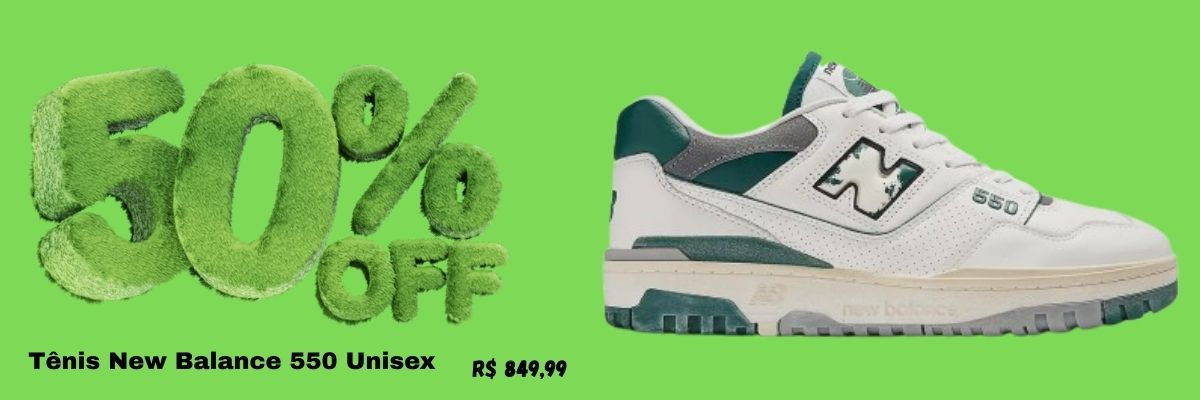
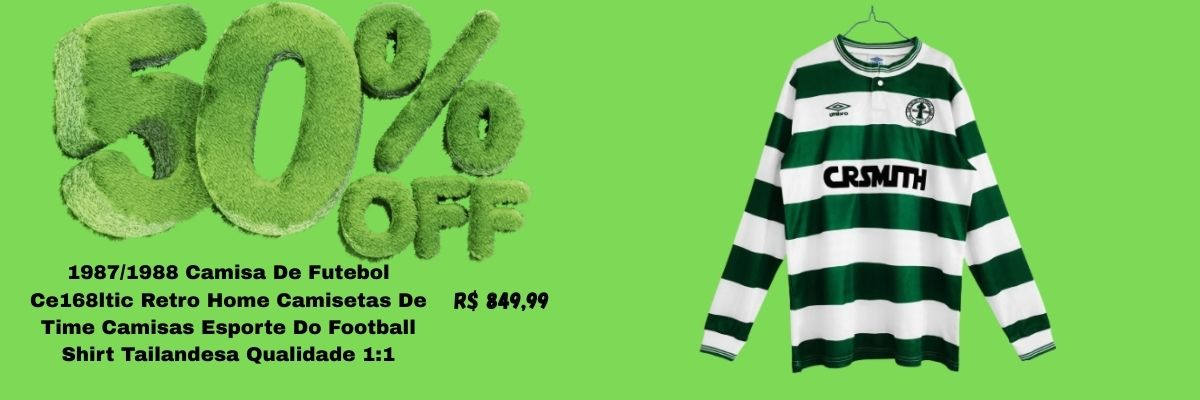
Add files via upload

diff --git a/src/App.jsx b/src/App.jsx
@@ -1,9 +1,9 @@
 import { useState } from 'react'
 import './App.css'
-import hellsing from './assets/pumal.png'
-import HP from './assets/new balance.png'
+import hellsing from './assets/arsenal.png'
+import HP from './assets/milan.png'
 import React from 'react'
-import HxH from './assets/dn.png'
+import HxH from './assets/celtic.png'
 import Slider1 from './assets/1.jpg'
 import Slider2 from './assets/2.jpg'
 import Slider3 from './assets/3.jpg'
@@ -31,7 +31,7 @@ loop={true}
 className='mySwiper'
     >
       <SwiperSlide>
-        <img src={Slider1} alt='slide1' />
+        <img src={Slider1} alt='slide 1' />
       </SwiperSlide>
       <SwiperSlide>
       <img src={Slider2} alt='Slide 2' />
@@ -51,8 +51,8 @@ className='mySwiper'
           <a href="#" className="link-card">
             <div className="card">
               <img src={hellsing} alt="" className="img-card" />
-              <h2 className="titulo-card">Puma suede xl</h2>
-              <p className="desc">Nova coleção da puma</p>
+              <h2 className="titulo-card">Camisa Retrô Arsenal Home</h2>
+              <p className="desc">Camisa do Arsenal Retrô 05/06 – Torcedor Nike Masculina Vinho</p>
               <p className="preco">R$ 499,99</p>
               <div className="avaliacao"> ★ ★ ★ ★ ☆</div>
              
@@ -63,8 +63,8 @@ className='mySwiper'
           <a header="#" className="img-card">
           <div className="card">
             <img src={HP} alt="" className="img-card" />
-            <h2 className="titulo-card">New Balance 550</h2>
-            <p className="desc">Da Serie de tenis 500</p>
+            <h2 className="titulo-card">Camisa Retro Milan Home 2006/2007</h2>
+            <p className="desc">Relembre com essa camisa como se fosser jogar,camisa do milan tailandesa 1.1</p>
             <p className="preco">R$ 250,00</p>
             <div className="avaliacao"> ★ ★ ★ ★ ★</div>
             
@@ -74,9 +74,9 @@ className='mySwiper'
           <a header="#" className="link-card">
             <div className="card">
               <img src={HxH} alt="" className="img-card" />
-              <h2 className="titulo-card">Airmax Dn</h2>
-              <p className="desc">Nova Coleção Airmax (estão como novos)</p>
-              <p className="preco">R$  ̶(2̶.̶2̶5̶0̶,̶0̶0̶) 2.025,00</p>
+              <h2 className="titulo-card">Camisa De Futebol Celtic Retro Home  Retrô</h2>
+              <p className="desc">1987/1988 Camisa De Futebol Celtic Retro Home Camisetas De Time Camisas Esporte Do Football Shirt Tailandesa Qualidade 1:1</p>
+              <p className="preco">R$  ̶(2̶.̶2̶5̶0̶,̶0̶0̶) 200</p>
               <div className="avaliacao"> ★ ★ ★ ★ ★</div>
               <div className="off">- 10%</div>
             </div>
